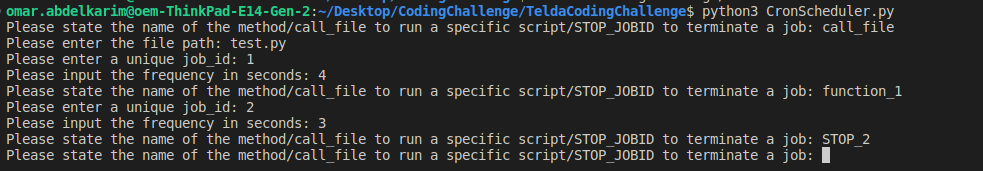
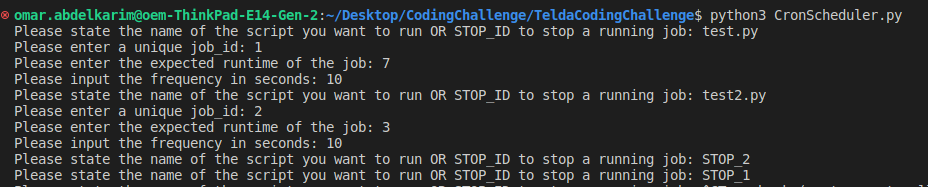
Adjusting Scheduling module

diff --git a/CronScheduler.py b/CronScheduler.py
@@ -1,5 +1,5 @@
 import multiprocessing
-import schedule
+# import schedule
 import time
 import subprocess
 import os
@@ -20,26 +20,9 @@ def call_file(file_path, logger):
     return
 
 
-# sample function
-def function_1(logger):
-    logger.info("Drink water!")
-    return
-
-
-# sample function
-def function_2(logger):
-    logger.info("Drink juice!")
-    return
-
-
-# adding the process along with the id
-def add_process(running_processes, function_name_, frequency, logger, file_name_, job_id):
-    if file_name_:
-        job_thread = multiprocessing.Process(target=schedule_job, args=(
-            function_name_, frequency, job_id, logger), kwargs=dict(params=file_name_))
-    else:
-        job_thread = multiprocessing.Process(
-            target=schedule_job, args=(function_name_, frequency, job_id, logger))
+def add_process(running_processes, file_name, frequency, expected_runtime, logger, job_id):
+    job_thread = multiprocessing.Process(target=schedule_call, args=(
+        file_name, frequency, expected_runtime, logger))
     job_thread.start()
     running_processes[job_id] = job_thread
     return
@@ -54,20 +37,19 @@ def add_logger(Loggers, logger, job_id):
 
 # Main cli tool
 def run_threaded():
-    function_name_ = str(input(
-        "Please state the name of the method/call_file to run a specific script/STOP_JOBID to terminate a job: "))
-    file_name_ = False
-    if function_name_.split('_')[0] == "STOP":
-        running_processes[function_name_.split('_')[1]].terminate()
-        Loggers[function_name_.split('_')[1]].info("Terminated!")
+    file_name = str(input(
+        "Please state the name of the script you want to run OR STOP_ID to stop a running job: "))
+    if file_name.split('_')[0] == "STOP":
+        running_processes[file_name.split('_')[1]].terminate()
+        Loggers[file_name.split('_')[1]].info("Terminated!")
         return
-    if function_name_ == 'call_file':
-        file_name_ = str(input("Please enter the file path: "))
     job_id = str(input("Please enter a unique job_id: "))
+    expected_runtime = int(
+        input("Please enter the expected runtime of the job: "))
     frequency = int(input("Please input the frequency in seconds: "))
     logger = Create_Log(job_id)
-    add_process(running_processes, function_name_,
-                frequency, logger, file_name_, job_id)
+    add_process(running_processes, file_name, frequency,
+                expected_runtime, logger, job_id)
     add_logger(Loggers, logger, job_id)
     return running_processes, Loggers
 
@@ -83,25 +65,30 @@ def Create_Log(job_id):
     return logger
 
 
-# Schedule a process with the required intervals
-def schedule_job(function_name, interval, job_id, logger, params=False):
-    if params:
-        schedule.every(interval).seconds.do(
-            functions[function_name], params, logger)
-    else:
-        schedule.every(interval).seconds.do(functions[function_name], logger)
+# # Schedule a process with the required intervals
+def schedule_call(file_name, frequency, expected_runtime, logger):
     while 1:
-        schedule.run_pending()
-        time.sleep(1)
-    return
+        logger.info("Job initialized!")
+        tok = time.time()
+        process = subprocess.Popen(f"exec python3 {file_name}", shell=True)
+        start_timer(time.time(), expected_runtime, process, logger)
+        time_taken = time.time() - tok
+        if not process.poll() is None:
+            time_taken = time.time() - tok
+            logger.info(f"Job done in {time.time()-tok} seconds!")
+        if frequency > expected_runtime:
+            time.sleep(frequency-time_taken)
 
-
-functions = {
-    "function_1": function_1,
-    "function_2": function_2,
-    "call_file": call_file
-}
-
+# a parallel job that calculates and terminates the time estimated to run the job
+def start_timer(bef_time, time_limit, process, logger):
+    while 1:
+        if (time.time() - bef_time) > time_limit and (process.poll() is None):
+            process.kill()
+            logger.info("Time Limit exceeded!")
+            # print("job terminated")
+            return
+        elif process.poll() is not None:
+            return
 
 if __name__ == '__main__':
     while 1:

diff --git a/test.py b/test.py
@@ -1,3 +1,6 @@
 import subprocess
+import time
 if __name__ == "__main__":
     subprocess.Popen(["notify-send","Drink!"])
+    for i in range(5):
+        time.sleep(1)

diff --git a/test2.py b/test2.py
@@ -1,0 +1,6 @@
+import time
+import subprocess
+if __name__ == "__main__":
+    while 1:
+        time.sleep(3)
+    subprocess.Popen(["notify-send","Eat food!"])

diff --git a/README.md b/README.md
@@ -2,13 +2,18 @@
 
 ## Brief Explaination + Reasoning
     The task is to implement a functionality in which a user has to provide multiple jobs along with the ID and frequency, and to organize those tasks in a manner that all jobs are executed concurrently. So the approach and methodology was applied as follows:
-        1. Shedule a simple function to run with a certain frequency. (Schedule module was used, could be implemented natively too)
+        1. Shedule module:
+            a. A challenge I encountered here, was that python natively freezes the code until the line executed, so to keep track of the runtime/timelimit; I used the subprocesses.Popen method which happens in the background, and in parallel to it a separate method was used to calculate the runtime and terminate the job in case of runtime exceeded.
+            b. The frequency is implemented using the time.sleep() method within a process as it will freeze the whole thread/process.
         2. Allow the user to have certain implementation, in this part multiple approaches could've been used including but not restricted to:
             - opening a Nano command to let the user implement the functionality then save the file in the required format.
             - Assuming the user has an already existing functionality (python script for example), then use the subprocess module to call this file in the periodical requirements. (chosen approach) (N.B: the funcionality for now only supports python files, but in the future a dictionary with the formats can be used to call the right command for running the file).
-        3. Running multiple process concurrently, here there was a choice between multiprocessing and threading libraries, I chose the multiprocessing in case the file already has parallel threads to provide better resources.
+        3. Running multiple process concurrently, here there was a choice between multiprocessing and threading libraries, I chose the multiprocessing as to allocated each job its own resources under the assumption that the processes are mutually exclusive.
         4. Tracking the active processes by storing them in a dictionary with ID as a key in case the user wants to terminate a job, they can just type (STOP_{job_ID}).
         5. The entire code I tried to write it following the best structure I can think of to correctly have test cases that covers main functionalities.
+        NB A diagram that briefly explains the flow
+![](Diagram.png)
+
 ## Usage
 
 1. To run clone the repo in your directory
@@ -30,5 +35,6 @@ python3 CronScheduler.py
 ## Possible future improvements
     a. The structure is built in a way that it can support freezing a certain process for a while, terminate, re-execute the job again but only terminate is available.
     b. Warnings and exceptions with explaination can be added to each functionality to keep better track of any future complexities.
-    c. The file and code structure is not scalable as it was done as a simple functionality, in an ultimate environment you would have a file for a cron job and a seperate one for scheduling, some more in depth resource allocation depending on the program needed space/CPU usage. 
-    d. There is an assumption that no job will fail, so if it fails the whole thread will stop without retrying.
+    c. The file and code structure is not scalable as it was done as a simple functionality, in an ultimate environment you would have a file for a cron job and a seperate one for scheduling, some more in depth resource allocation depending on the program needed space/CPU usage.
+    d. There is an assumption that no job will fail, so if it fails the whole process will go under an error while the program is still running.
+    e. In case the runtime exceeds the frequency, I was not sure how to handle that but in this program the job will continue executing as long as the runtime did not exceed the user's mentioned runtime.
